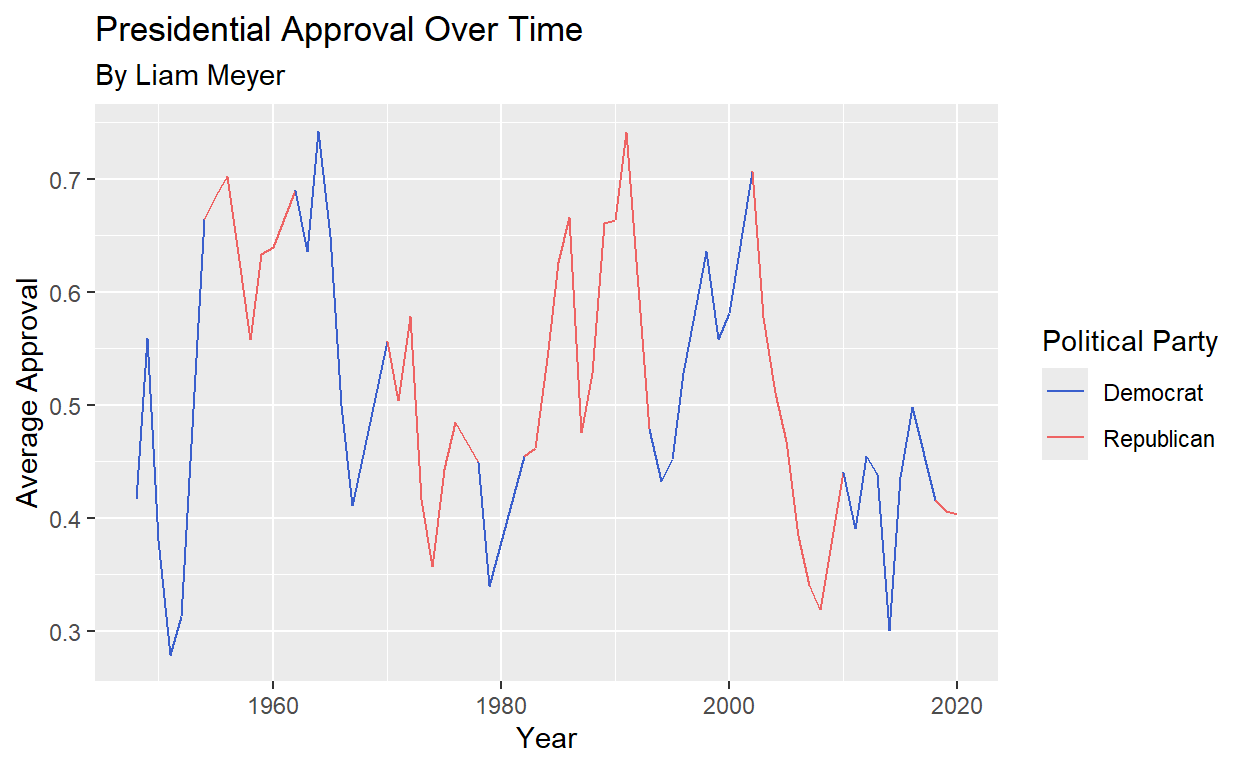
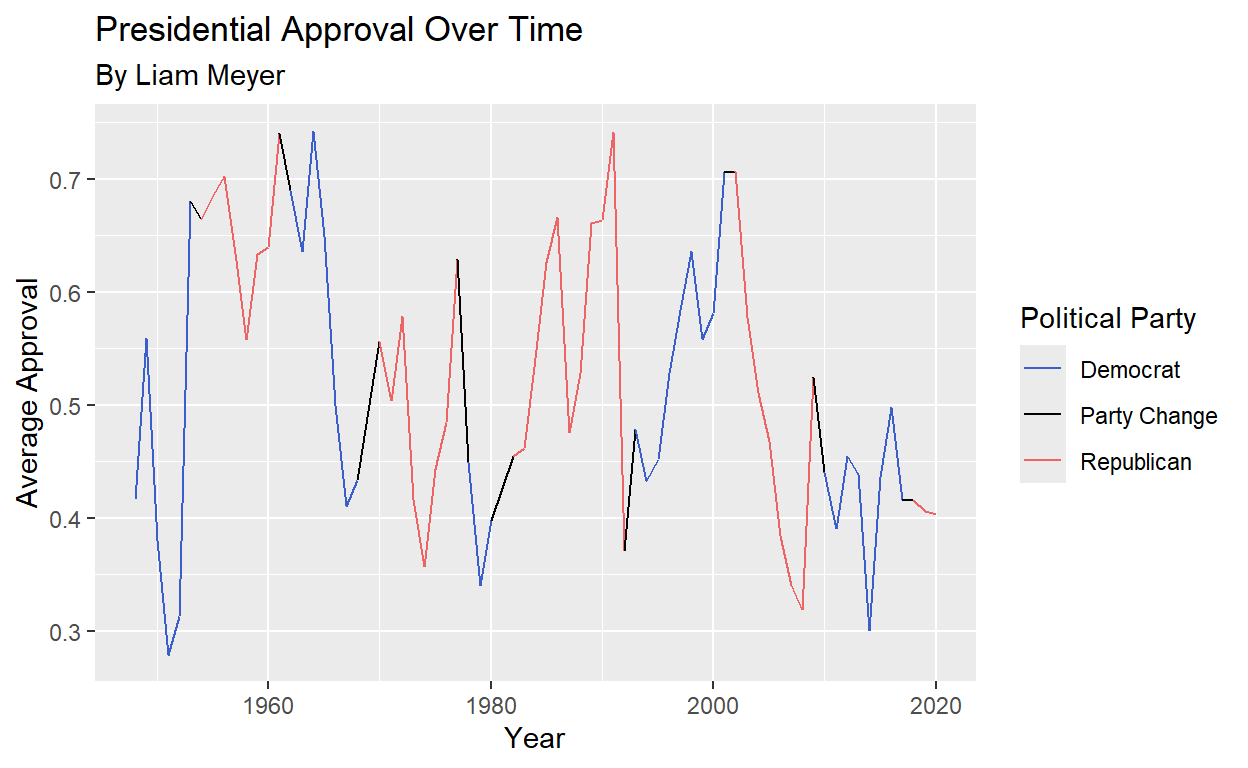
Created a cross-party approval variable and a graph using it. Also wrote an initial answer to my research question.

diff --git a/index.html b/index.html
@@ -115,7 +115,7 @@ code span.wa { color: #5e5e5e; font-style: italic; } /* Warning */
   <!--/radix_placeholder_rmarkdown_metadata-->
   
   <script type="text/json" id="radix-resource-manifest">
-  {"type":"character","attributes":{},"value":["31120311.csv","index_files/anchor-4.2.2/anchor.min.js","index_files/bowser-1.9.3/bowser.min.js","index_files/distill-2.2.21/template.v2.js","index_files/figure-html5/unnamed-chunk-3-1.png","index_files/header-attrs-2.17/header-attrs.js","index_files/header-attrs-2.28/header-attrs.js","index_files/jquery-3.6.0/jquery-3.6.0.js","index_files/jquery-3.6.0/jquery-3.6.0.min.js","index_files/jquery-3.6.0/jquery-3.6.0.min.map","index_files/popper-2.6.0/popper.min.js","index_files/tippy-6.2.7/tippy-bundle.umd.min.js","index_files/tippy-6.2.7/tippy-light-border.css","index_files/tippy-6.2.7/tippy.css","index_files/tippy-6.2.7/tippy.umd.min.js","index_files/webcomponents-2.0.0/webcomponents.js","president_polls.csv"]}
+  {"type":"character","attributes":{},"value":["31120311.csv","index_files/anchor-4.2.2/anchor.min.js","index_files/bowser-1.9.3/bowser.min.js","index_files/distill-2.2.21/template.v2.js","index_files/figure-html5/unnamed-chunk-3-1.png","index_files/figure-html5/unnamed-chunk-5-1.png","index_files/header-attrs-2.17/header-attrs.js","index_files/header-attrs-2.28/header-attrs.js","index_files/header-attrs-2.29/header-attrs.js","index_files/jquery-3.6.0/jquery-3.6.0.js","index_files/jquery-3.6.0/jquery-3.6.0.min.js","index_files/jquery-3.6.0/jquery-3.6.0.min.map","index_files/popper-2.6.0/popper.min.js","index_files/tippy-6.2.7/tippy-bundle.umd.min.js","index_files/tippy-6.2.7/tippy-light-border.css","index_files/tippy-6.2.7/tippy.css","index_files/tippy-6.2.7/tippy.umd.min.js","index_files/webcomponents-2.0.0/webcomponents.js","president_polls.csv"]}
   </script>
   <!--radix_placeholder_navigation_in_header-->
   <!--/radix_placeholder_navigation_in_header-->
@@ -1497,7 +1497,7 @@ code span.wa { color: #5e5e5e; font-style: italic; } /* Warning */
   </script>
 
   <!--/radix_placeholder_distill-->
-  <script src="index_files/header-attrs-2.28/header-attrs.js"></script>
+  <script src="index_files/header-attrs-2.29/header-attrs.js"></script>
   <script src="index_files/jquery-3.6.0/jquery-3.6.0.min.js"></script>
   <script src="index_files/popper-2.6.0/popper.min.js"></script>
   <link href="index_files/tippy-6.2.7/tippy.css" rel="stylesheet" />
@@ -1568,7 +1568,16 @@ code span.wa { color: #5e5e5e; font-style: italic; } /* Warning */
 <span>                                <span class='va'>year</span> <span class='op'>&gt;=</span> <span class='fl'>1993</span> <span class='op'>&amp;</span> <span class='va'>year</span> <span class='op'>&lt;</span> <span class='fl'>2001</span> <span class='op'>~</span> <span class='st'>"D"</span>,</span>
 <span>                                <span class='va'>year</span> <span class='op'>&gt;=</span> <span class='fl'>2002</span> <span class='op'>&amp;</span> <span class='va'>year</span> <span class='op'>&lt;</span> <span class='fl'>2009</span> <span class='op'>~</span> <span class='st'>"R"</span>,</span>
 <span>                                <span class='va'>year</span> <span class='op'>&gt;=</span> <span class='fl'>2010</span> <span class='op'>&amp;</span> <span class='va'>year</span> <span class='op'>&lt;</span> <span class='fl'>2017</span> <span class='op'>~</span> <span class='st'>"D"</span>,</span>
-<span>                                <span class='va'>year</span> <span class='op'>&gt;=</span> <span class='fl'>2018</span> <span class='op'>~</span> <span class='st'>"R"</span><span class='op'>)</span><span class='op'>)</span></span>
+<span>                                <span class='va'>year</span> <span class='op'>&gt;=</span> <span class='fl'>2018</span> <span class='op'>~</span> <span class='st'>"R"</span>,</span>
+<span>                                <span class='va'>year</span> <span class='op'>==</span> <span class='fl'>1953</span> <span class='op'>~</span> <span class='st'>"Party Change"</span>,</span>
+<span>                                <span class='va'>year</span> <span class='op'>==</span> <span class='fl'>1961</span> <span class='op'>~</span> <span class='st'>"Party Change"</span>,</span>
+<span>                                <span class='va'>year</span> <span class='op'>==</span> <span class='fl'>1968</span> <span class='op'>~</span> <span class='st'>"Party Change"</span>,</span>
+<span>                                <span class='va'>year</span> <span class='op'>==</span> <span class='fl'>1977</span> <span class='op'>~</span> <span class='st'>"Party Change"</span>,</span>
+<span>                                <span class='va'>year</span> <span class='op'>==</span> <span class='fl'>1980</span> <span class='op'>~</span> <span class='st'>"Party Change"</span>,</span>
+<span>                                <span class='va'>year</span> <span class='op'>==</span> <span class='fl'>1992</span> <span class='op'>~</span> <span class='st'>"Party Change"</span>,</span>
+<span>                                <span class='va'>year</span> <span class='op'>==</span> <span class='fl'>2001</span> <span class='op'>~</span> <span class='st'>"Party Change"</span>,</span>
+<span>                                <span class='va'>year</span> <span class='op'>==</span> <span class='fl'>2009</span> <span class='op'>~</span> <span class='st'>"Party Change"</span>,</span>
+<span>                                <span class='va'>year</span> <span class='op'>==</span> <span class='fl'>2017</span> <span class='op'>~</span> <span class='st'>"Party Change"</span><span class='op'>)</span><span class='op'>)</span></span>
 <span><span class='va'>approval_graph1</span> <span class='op'>&lt;-</span> <span class='va'>Approval_pres</span> <span class='op'>|&gt;</span></span>
 <span>  <span class='fu'><a href='https://dplyr.tidyverse.org/reference/filter.html'>filter</a></span><span class='op'>(</span><span class='op'>!</span><span class='fu'><a href='https://rdrr.io/r/base/NA.html'>is.na</a></span><span class='op'>(</span><span class='va'>pres_party</span><span class='op'>)</span><span class='op'>)</span> <span class='op'>|&gt;</span></span>
 <span>  <span class='fu'><a href='https://dplyr.tidyverse.org/reference/group_by.html'>group_by</a></span><span class='op'>(</span><span class='va'>year</span>, <span class='va'>pres_party</span><span class='op'>)</span> <span class='op'>|&gt;</span></span>
@@ -1581,7 +1590,7 @@ code span.wa { color: #5e5e5e; font-style: italic; } /* Warning */
 <pre class="sourceCode r"><code class="sourceCode r"><span><span class='va'>Milestone3_graph</span> <span class='op'>&lt;-</span> <span class='va'>approval_graph1</span> <span class='op'>|&gt;</span></span>
 <span>  <span class='fu'><a href='https://ggplot2.tidyverse.org/reference/ggplot.html'>ggplot</a></span><span class='op'>(</span><span class='fu'><a href='https://ggplot2.tidyverse.org/reference/aes.html'>aes</a></span><span class='op'>(</span>x <span class='op'>=</span> <span class='va'>year</span>, y <span class='op'>=</span> <span class='va'>approval_mean</span>, group <span class='op'>=</span> <span class='fl'>1</span><span class='op'>)</span><span class='op'>)</span> <span class='op'>+</span></span>
 <span>  <span class='fu'><a href='https://ggplot2.tidyverse.org/reference/geom_path.html'>geom_line</a></span><span class='op'>(</span><span class='fu'><a href='https://ggplot2.tidyverse.org/reference/aes.html'>aes</a></span><span class='op'>(</span>color <span class='op'>=</span> <span class='va'>pres_party</span><span class='op'>)</span><span class='op'>)</span> <span class='op'>+</span></span>
-<span>  <span class='fu'><a href='https://ggplot2.tidyverse.org/reference/scale_manual.html'>scale_color_manual</a></span><span class='op'>(</span>values <span class='op'>=</span> <span class='fu'><a href='https://rdrr.io/r/base/c.html'>c</a></span><span class='op'>(</span><span class='st'>"royalblue3"</span>, <span class='st'>"indianred2"</span><span class='op'>)</span>, name <span class='op'>=</span> <span class='st'>"Political Party"</span>, labels <span class='op'>=</span> <span class='fu'><a href='https://rdrr.io/r/base/c.html'>c</a></span><span class='op'>(</span><span class='st'>"Democrat"</span>, <span class='st'>"Republican"</span><span class='op'>)</span><span class='op'>)</span> <span class='op'>+</span></span>
+<span>  <span class='fu'><a href='https://ggplot2.tidyverse.org/reference/scale_manual.html'>scale_color_manual</a></span><span class='op'>(</span>values <span class='op'>=</span> <span class='fu'><a href='https://rdrr.io/r/base/c.html'>c</a></span><span class='op'>(</span><span class='st'>"royalblue3"</span>, <span class='st'>"grey1"</span>, <span class='st'>"indianred2"</span><span class='op'>)</span>, name <span class='op'>=</span> <span class='st'>"Political Party"</span>, labels <span class='op'>=</span> <span class='fu'><a href='https://rdrr.io/r/base/c.html'>c</a></span><span class='op'>(</span><span class='st'>"Democrat"</span>, <span class='st'>"Party Change"</span>, <span class='st'>"Republican"</span><span class='op'>)</span><span class='op'>)</span> <span class='op'>+</span></span>
 <span>  <span class='fu'><a href='https://ggplot2.tidyverse.org/reference/labs.html'>labs</a></span><span class='op'>(</span>x <span class='op'>=</span> <span class='st'>"Year"</span>,</span>
 <span>       y <span class='op'>=</span> <span class='st'>"Average Approval"</span>,</span>
 <span>       title <span class='op'>=</span> <span class='st'>"Presidential Approval Over Time"</span>,</span>
@@ -1591,6 +1600,38 @@ code span.wa { color: #5e5e5e; font-style: italic; } /* Warning */
 <p><img src="index_files/figure-html5/unnamed-chunk-3-1.png" width="624" /></p>
 </div>
 <p>This graph shows the average proportion of people who approved of the president at a point in time, with 1 being everyone approved of the president and 0 being no one did. My final project will likely contain a graph like this on but with an addition of a line showing the proportion of people from specifically the opposing political party who approved of the president.</p>
+<h2 id="visualization-and-analysis-1">Visualization and Analysis 1</h2>
+<div class="layout-chunk" data-layout="l-body">
+<div class="sourceCode">
+<pre class="sourceCode r"><code class="sourceCode r"><span><span class='va'>Approval_pres</span> <span class='op'>&lt;-</span> <span class='va'>Approval_pres</span> <span class='op'>|&gt;</span></span>
+<span>  <span class='fu'><a href='https://dplyr.tidyverse.org/reference/mutate.html'>mutate</a></span><span class='op'>(</span>cross_party_approval <span class='op'>=</span> <span class='fu'><a href='https://dplyr.tidyverse.org/reference/if_else.html'>if_else</a></span><span class='op'>(</span><span class='va'>pres_approve2</span> <span class='op'>==</span> <span class='st'>"1 Approve"</span> <span class='op'>&amp;</span></span>
+<span>                                      <span class='va'>democrat</span> <span class='op'>==</span> <span class='st'>"1 Dem"</span> <span class='op'>&amp;</span></span>
+<span>                                      <span class='va'>pres_party</span> <span class='op'>==</span> <span class='st'>"R"</span> <span class='op'>|</span></span>
+<span>                                      <span class='va'>pres_approve2</span> <span class='op'>==</span> <span class='st'>"1 Approve"</span> <span class='op'>&amp;</span></span>
+<span>                                      <span class='va'>republican</span> <span class='op'>==</span> <span class='st'>"1 Rep"</span> <span class='op'>&amp;</span></span>
+<span>                                      <span class='va'>pres_party</span> <span class='op'>==</span> <span class='st'>"D"</span>, <span class='fl'>1</span>, <span class='fl'>0</span><span class='op'>)</span><span class='op'>)</span></span></code></pre>
+</div>
+</div>
+<div class="layout-chunk" data-layout="l-body">
+<div class="sourceCode">
+<pre class="sourceCode r"><code class="sourceCode r"><span><span class='va'>Cross_Party_Graph1</span> <span class='op'>&lt;-</span> <span class='va'>Approval_pres</span> <span class='op'>|&gt;</span></span>
+<span>  <span class='fu'><a href='https://dplyr.tidyverse.org/reference/group_by.html'>group_by</a></span><span class='op'>(</span><span class='va'>year</span>, <span class='va'>pres_party</span><span class='op'>)</span> <span class='op'>|&gt;</span></span>
+<span>  <span class='fu'><a href='https://dplyr.tidyverse.org/reference/summarise.html'>summarize</a></span><span class='op'>(</span>cross_mean <span class='op'>=</span> <span class='fu'><a href='https://rdrr.io/r/base/mean.html'>mean</a></span><span class='op'>(</span><span class='va'>cross_party_approval</span>, na.rm <span class='op'>=</span> <span class='cn'>T</span><span class='op'>)</span><span class='op'>)</span> <span class='op'>|&gt;</span></span>
+<span>  <span class='fu'><a href='https://dplyr.tidyverse.org/reference/filter.html'>filter</a></span><span class='op'>(</span><span class='op'>!</span><span class='fu'><a href='https://rdrr.io/r/base/NA.html'>is.na</a></span><span class='op'>(</span><span class='va'>pres_party</span><span class='op'>)</span><span class='op'>)</span> <span class='op'>|&gt;</span></span>
+<span>  <span class='fu'><a href='https://ggplot2.tidyverse.org/reference/ggplot.html'>ggplot</a></span><span class='op'>(</span><span class='fu'><a href='https://ggplot2.tidyverse.org/reference/aes.html'>aes</a></span><span class='op'>(</span>x <span class='op'>=</span> <span class='va'>year</span>, y <span class='op'>=</span> <span class='va'>cross_mean</span><span class='op'>)</span><span class='op'>)</span> <span class='op'>+</span></span>
+<span>  <span class='fu'><a href='https://ggplot2.tidyverse.org/reference/geom_bar.html'>geom_col</a></span><span class='op'>(</span><span class='fu'><a href='https://ggplot2.tidyverse.org/reference/aes.html'>aes</a></span><span class='op'>(</span>fill <span class='op'>=</span> <span class='va'>pres_party</span><span class='op'>)</span><span class='op'>)</span> <span class='op'>+</span></span>
+<span>  <span class='fu'><a href='https://ggplot2.tidyverse.org/reference/scale_manual.html'>scale_fill_manual</a></span><span class='op'>(</span>values <span class='op'>=</span> <span class='fu'><a href='https://rdrr.io/r/base/c.html'>c</a></span><span class='op'>(</span><span class='st'>"royalblue3"</span>, <span class='st'>"grey1"</span>, <span class='st'>"indianred2"</span><span class='op'>)</span>, name <span class='op'>=</span> <span class='st'>"Political Party"</span>, labels <span class='op'>=</span> <span class='fu'><a href='https://rdrr.io/r/base/c.html'>c</a></span><span class='op'>(</span><span class='st'>"Democrat"</span>, <span class='st'>"Party Change"</span>, <span class='st'>"Republican"</span><span class='op'>)</span><span class='op'>)</span> <span class='op'>+</span></span>
+<span>  <span class='fu'><a href='https://ggplot2.tidyverse.org/reference/ggtheme.html'>theme_bw</a></span><span class='op'>(</span><span class='op'>)</span> <span class='op'>+</span></span>
+<span>  <span class='fu'><a href='https://ggplot2.tidyverse.org/reference/labs.html'>labs</a></span><span class='op'>(</span>x <span class='op'>=</span> <span class='st'>"Year"</span>,</span>
+<span>       y <span class='op'>=</span> <span class='st'>"Average Cross Party Approval"</span>,</span>
+<span>       title <span class='op'>=</span> <span class='st'>"Cross Party Approval Over Time"</span>,</span>
+<span>       subtitle <span class='op'>=</span> <span class='st'>"By Liam Mayer"</span>,</span>
+<span>       caption <span class='op'>=</span> <span class='st'>"Data from RoperCenter"</span><span class='op'>)</span></span>
+<span><span class='va'>Cross_Party_Graph1</span></span></code></pre>
+</div>
+<p><img src="index_files/figure-html5/unnamed-chunk-5-1.png" width="624" /></p>
+</div>
+<p>This graph shows the proportion of people who approved of a president from a political party other than their own. Unfortunately, the surveys used only provided the year they were taken, not the specific date, so years where the political party of the president changed are omitted from this graph. As can be seen here, the highest proportion of cross-party approval came in 1954, where almost 25% of Democrat voters approved of the Republican president. Republican voters appear to have a lower average cross-party approval rating no matter what year it is, but the early 2000s seems to mark a point where cross-party approval goes down drastically. It is therefore possible to assume that the 2000s marked a point where political polarization began drastically increasing. Therefore my initial hypothesis, that political polarization increased drastically around 2016, was incorrect. Instead, it appears as though some event or series of events in the early 2000s led to a drastically increased amount of political polarization visualized by a much lower cross-party approval rating in this graph.</p>
 <h2 id="links-to-the-datasets">Links to the Datasets</h2>
 <p><a href="https://ropercenter.cornell.edu/ipoll/study?doi=10.25940/ROPER-31120311" class="uri">https://ropercenter.cornell.edu/ipoll/study?doi=10.25940/ROPER-31120311</a> (Ropercenter 2020 and earlier presidential approval rates)</p>
 <p><a href="https://projects.fivethirtyeight.com/polls-page/data/president_polls.csv" class="uri">https://projects.fivethirtyeight.com/polls-page/data/president_polls.csv</a> (FiveThirtyEight 2024 poll dataset)</p>
